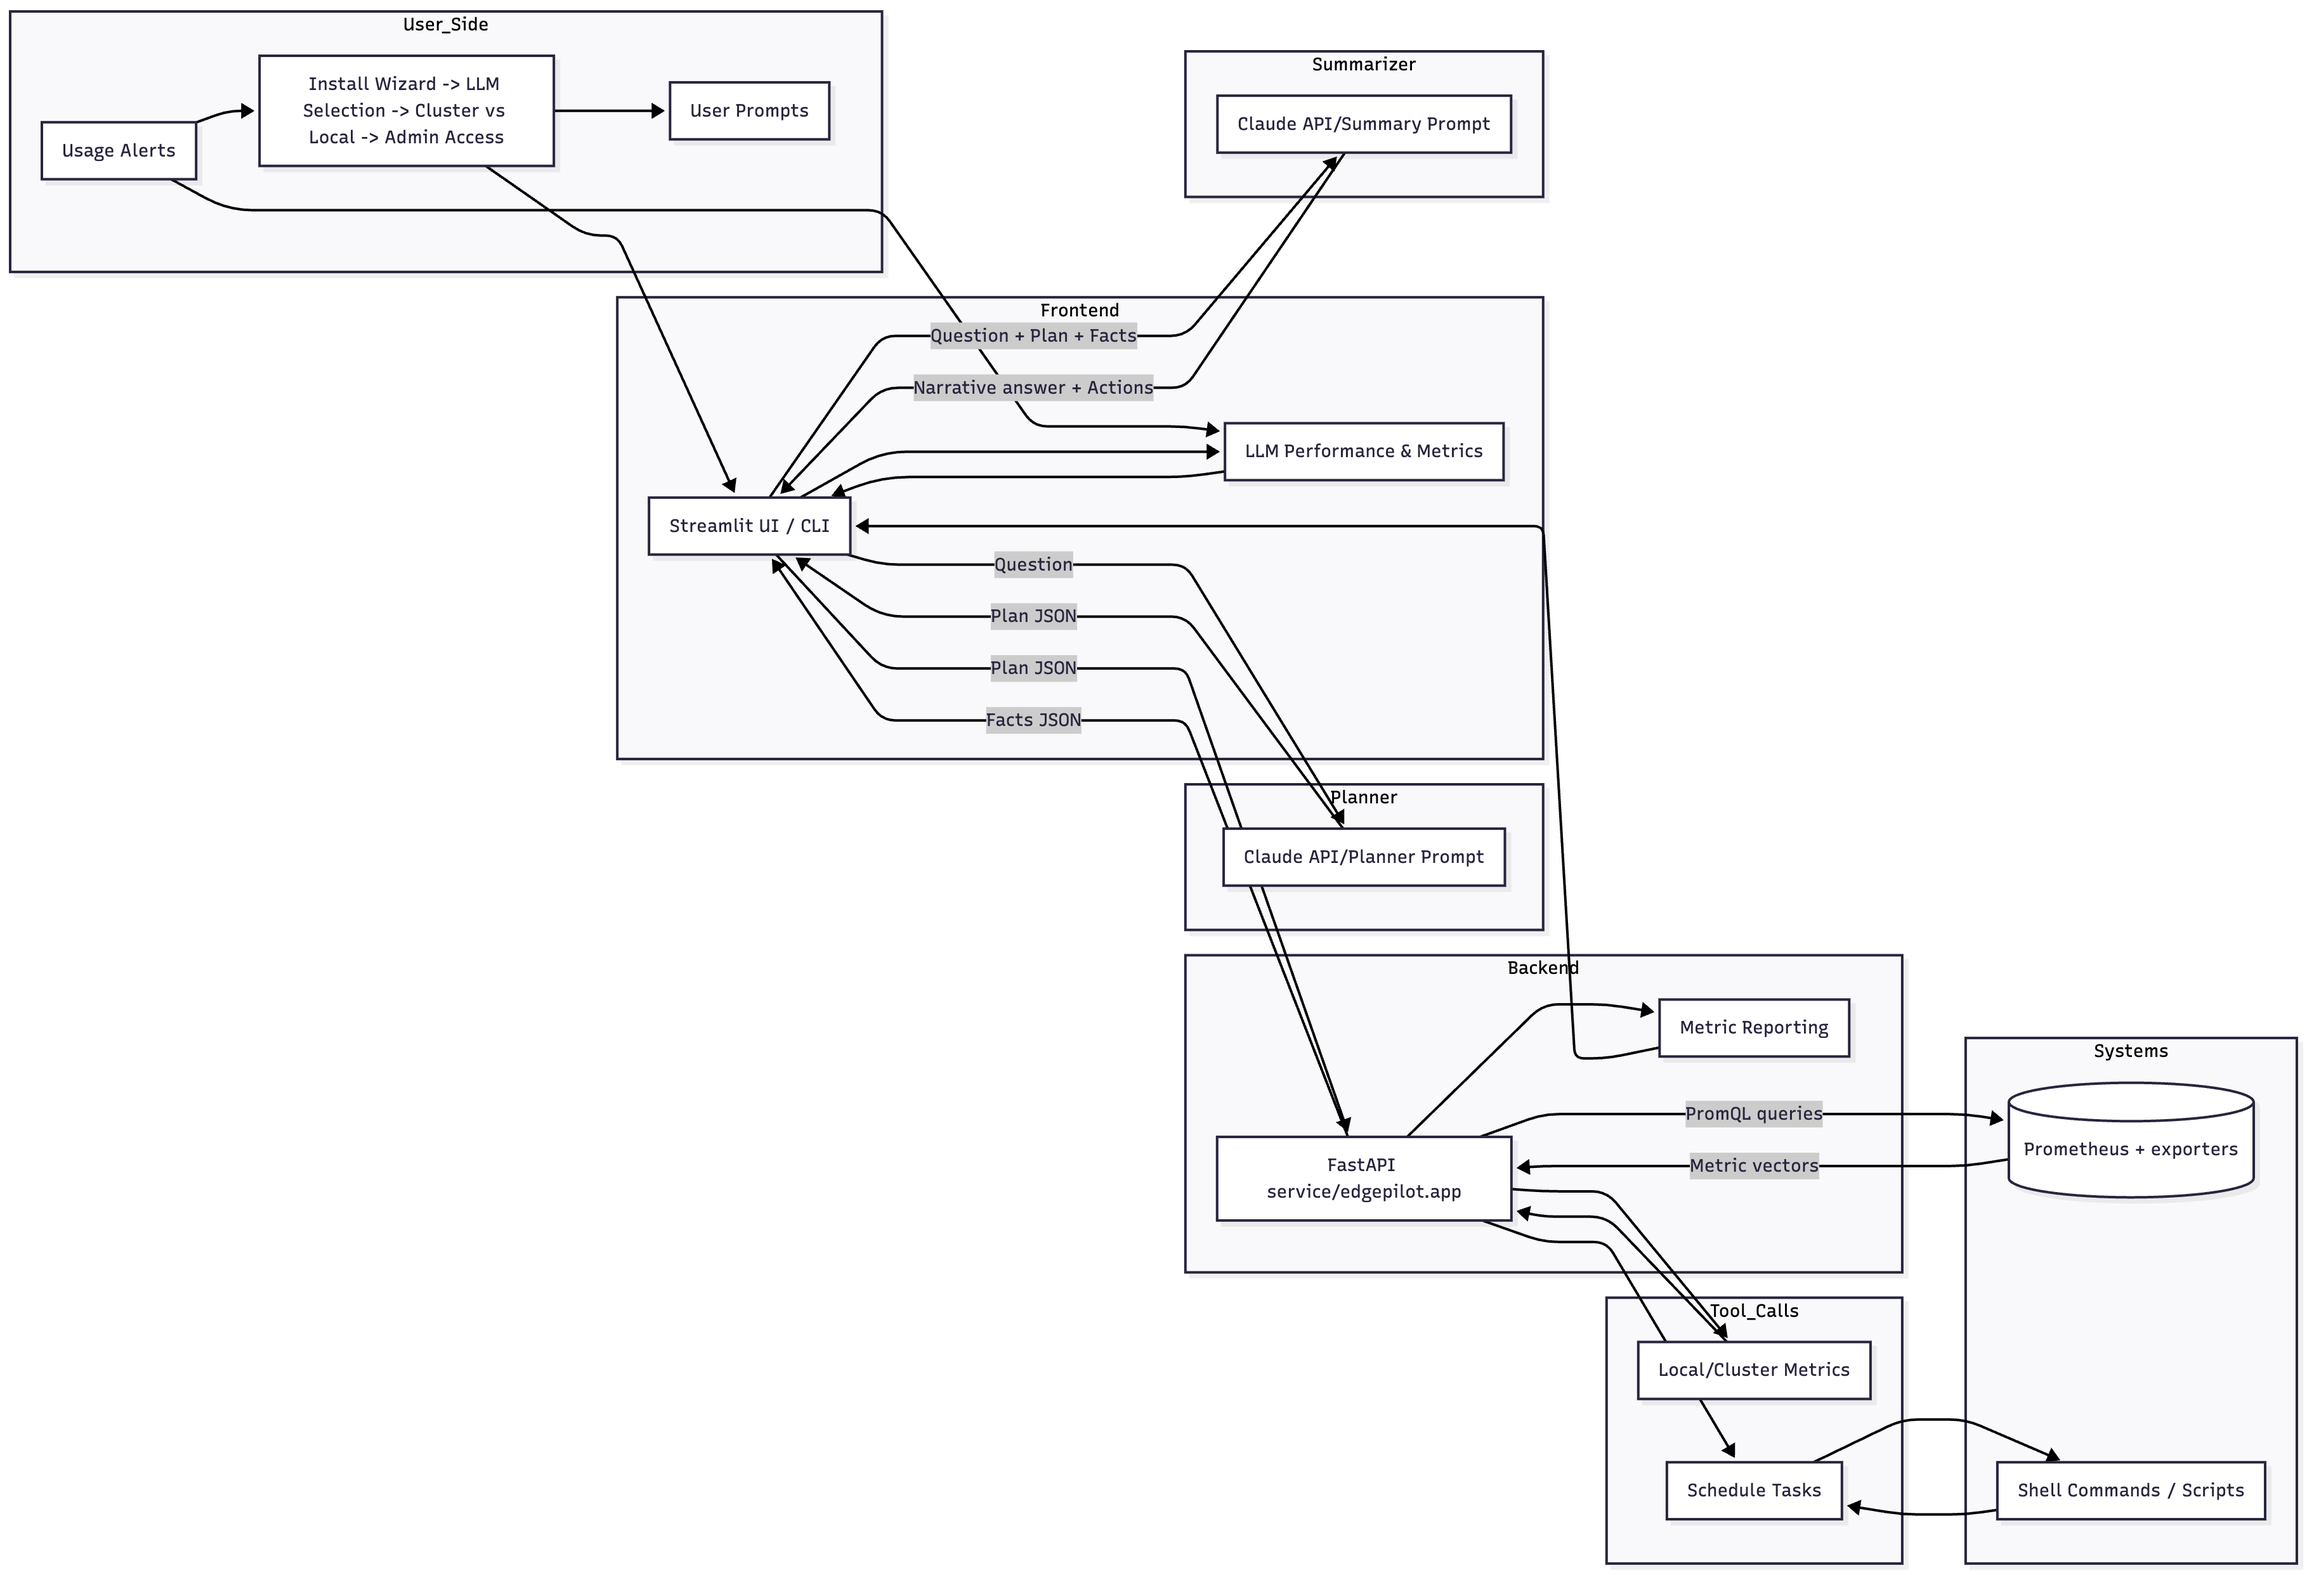
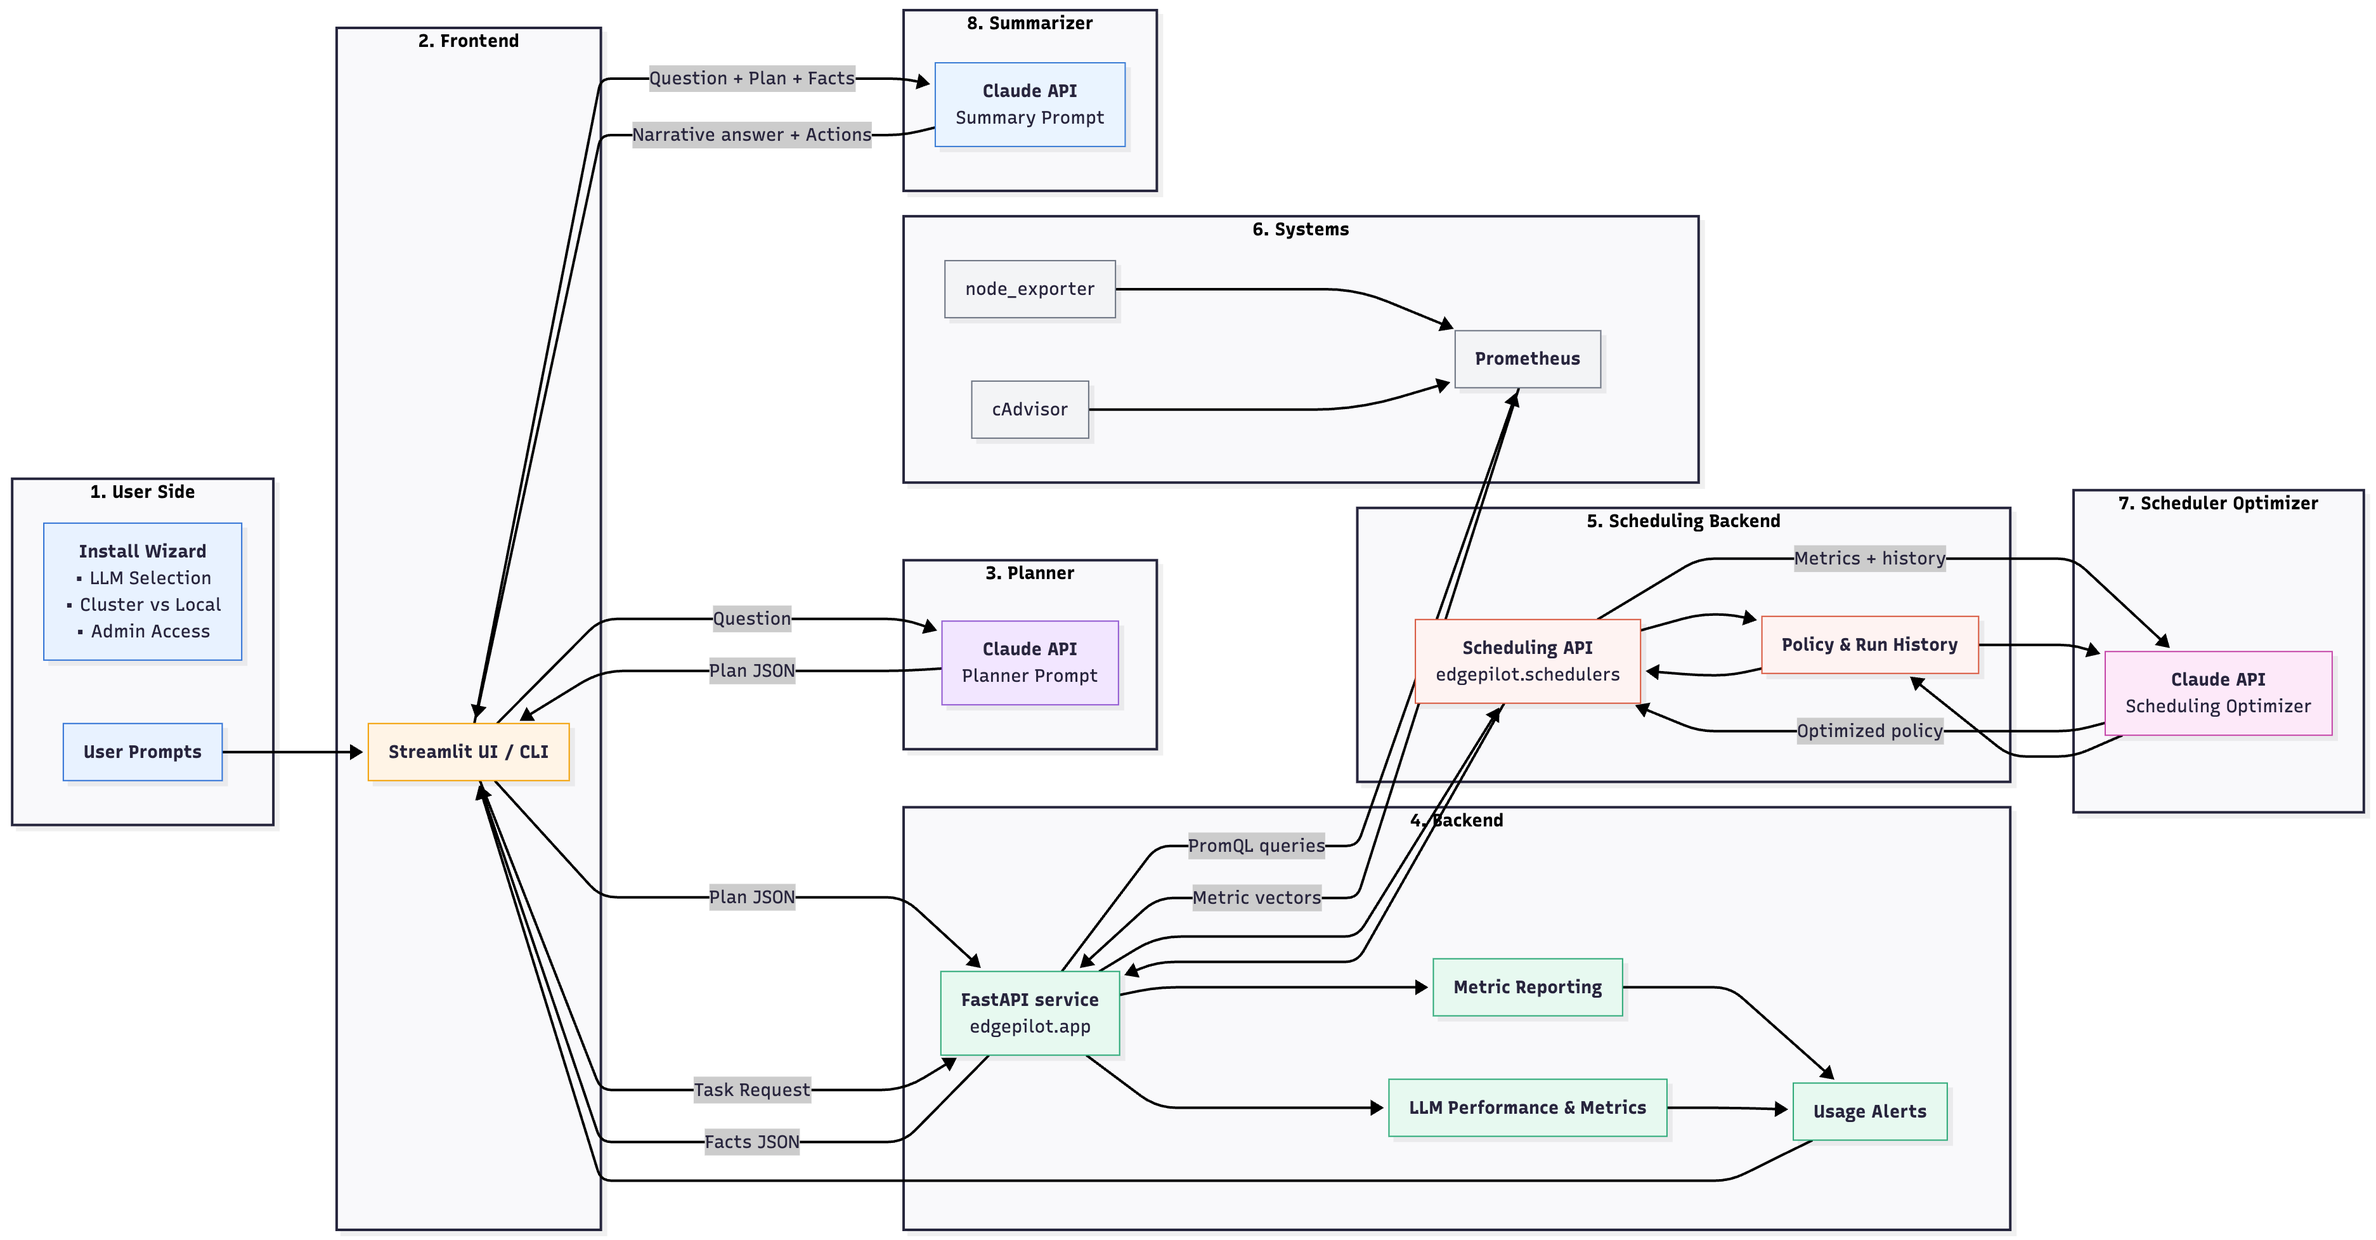
Updated architecture

diff --git a/README.md b/README.md
@@ -4,41 +4,48 @@
 
 ## Layers
 
-### User Side
-- **Usage Alerts**: trigger install or follow-up investigations.
-- **Install Wizard**: guides through LLM selection (Claude), cluster/local install, and access requirements.
-- **Prompts**: natural-language questions typed into the UI/CLI.
+### 1. User Side
+- **Install Wizard** collects deployment choices (Claude model, cluster vs. local, access) and lights up the Streamlit UI.
+- **Prompts** capture ad-hoc questions after setup; every prompt becomes an input for the planner.
 
-### Frontend (Streamlit UI / CLI)
-- Collects user questions, displays responses, recommended actions, and raw facts.
-- Tracks LLM usage, latency, and alerting metrics.
+### 2. Frontend (Streamlit UI / CLI)
+- Orchestrates the human loop: sends questions to the planner, renders plan JSON, raw facts, and summarized answers.
+- Surfaces LLM usage/performance metrics emitted by the planner and summarizer alongside alert banners from the backend.
 
-### Planner (Claude)
-- Converts questions into structured JSON actions (`report`, `can_run`, `suggest_window`, `run_task`, etc.).
-- Ensures output schema compliance before handing off to EdgePilot API.
+### 3. Planner (Claude)
+- Translates natural language into strongly-typed plan JSON (`report`, `can_run`, `suggest_window`, `run_task`, etc.).
+- Validates schema compliance before the plan is returned to the UI and relayed to the API.
+- Emits latency, token, and error telemetry that feeds the LLM performance dashboard.
 
-### Backend
-- **FastAPI (`edgepilot.app`)** loads the ring/blueprint metadata, composes PromQL, and orchestrates task execution.
-- **Metric Reporting** surfaces API health, execution duration, and scheduling outcomes back to the UI.
+### 4. Backend
+- **FastAPI (`edgepilot.app`)** materializes plan steps: composes PromQL, coordinates task execution, and persists run context.
+- **Metric Reporting** aggregates resource usage and emits alerts when thresholds are exceeded.
+- **Usage Alerts** are generated from metric reports and forwarded to the UI for operator follow-up.
+- **LLM Performance & Metrics** tracks planner/summarizer behavior for observability.
 
-### Tool Calls
-- **Metrics Tooling**: queries Prometheus via PromQL for host/container signals.
-- **Task Runner**: optional execution of experiments or remediation commands.
+### 5. Scheduling Backend
+- **Scheduling API (`edgepilot.schedulers`)** handles task submissions destined for optimized execution.
+- **Policy & Run History** captures prior job executions, chosen policies, and downstream outcomes for reuse.
 
-### Systems / External Calls
-- **Prometheus & exporters** supply the deterministic metrics (node-exporter, cAdvisor, etc.).
-- **Shell Commands / Scripts** allow controlled remediation or load tests when requested.
+### 6. Systems / Exporters
+- **Prometheus, node_exporter, and cAdvisor** supply live system metrics that drive both reporting and scheduling analysis.
 
-### Summarizer (Claude)
-- Crafts the final narrative answer by combining the original question, planner output, and factual data.
-- Adds recommended actions and confidence scores when available.
+### 7. Scheduler Optimizer (Claude)
+- Consumes current metrics plus historical policy data from the backend to synthesize an optimized scheduling strategy.
+- Returns policy updates to the EdgePilot API so upcoming tasks run with the recommended configuration.
+
+### 8. Summarizer (Claude)
+- Consumes the original question, planner plan, and backend facts to craft the final narrative response.
+- Adds recommended actions, confidence notes, and response metrics that contribute to usage alerts.
 
 ## Data Flow Summary
-1. User installs EdgePilot, selects LLM (Claude Haiku), and launches the Streamlit UI.
-2. A question is sent to the planner LLM; JSON action is returned.
-3. EdgePilot API executes the action: queries Prometheus, schedules tasks, or runs shell workflows.
-4. Raw facts and task results are streamed back to the UI and summarized by Claude.
-5. The UI logs metrics and usage alerts, closing the loop for future sessions.
+1. User installs EdgePilot, selects the Claude model, and launches the Streamlit UI/CLI.
+2. A prompt is sent to the planner LLM; validated plan JSON returns to the UI and is forwarded to the API.
+3. The FastAPI backend executes each step by issuing PromQL queries against Prometheus and streams execution signals to the scheduling API.
+4. The scheduling backend gathers policy/run history, augments it with fresh metrics, and hands the package to the optimizer LLM.
+5. The scheduler optimizer returns policy recommendations that the scheduling API applies to upcoming task requests.
+6. EdgePilot runs requested jobs using the optimized policy while logging run context, usage metrics, and alert signals.
+7. Planner and summarizer responses populate LLM performance metrics while the summarizer crafts the narrative answer and closes the loop with usage alerts.
 
 ## Environment & Configuration
 - Credentials are managed via `.env` (`ANTHROPIC_API_KEY`, `CLAUDE_MODEL=claude-3-5-haiku-20241022`, `EDGE_BASE_URL`).
